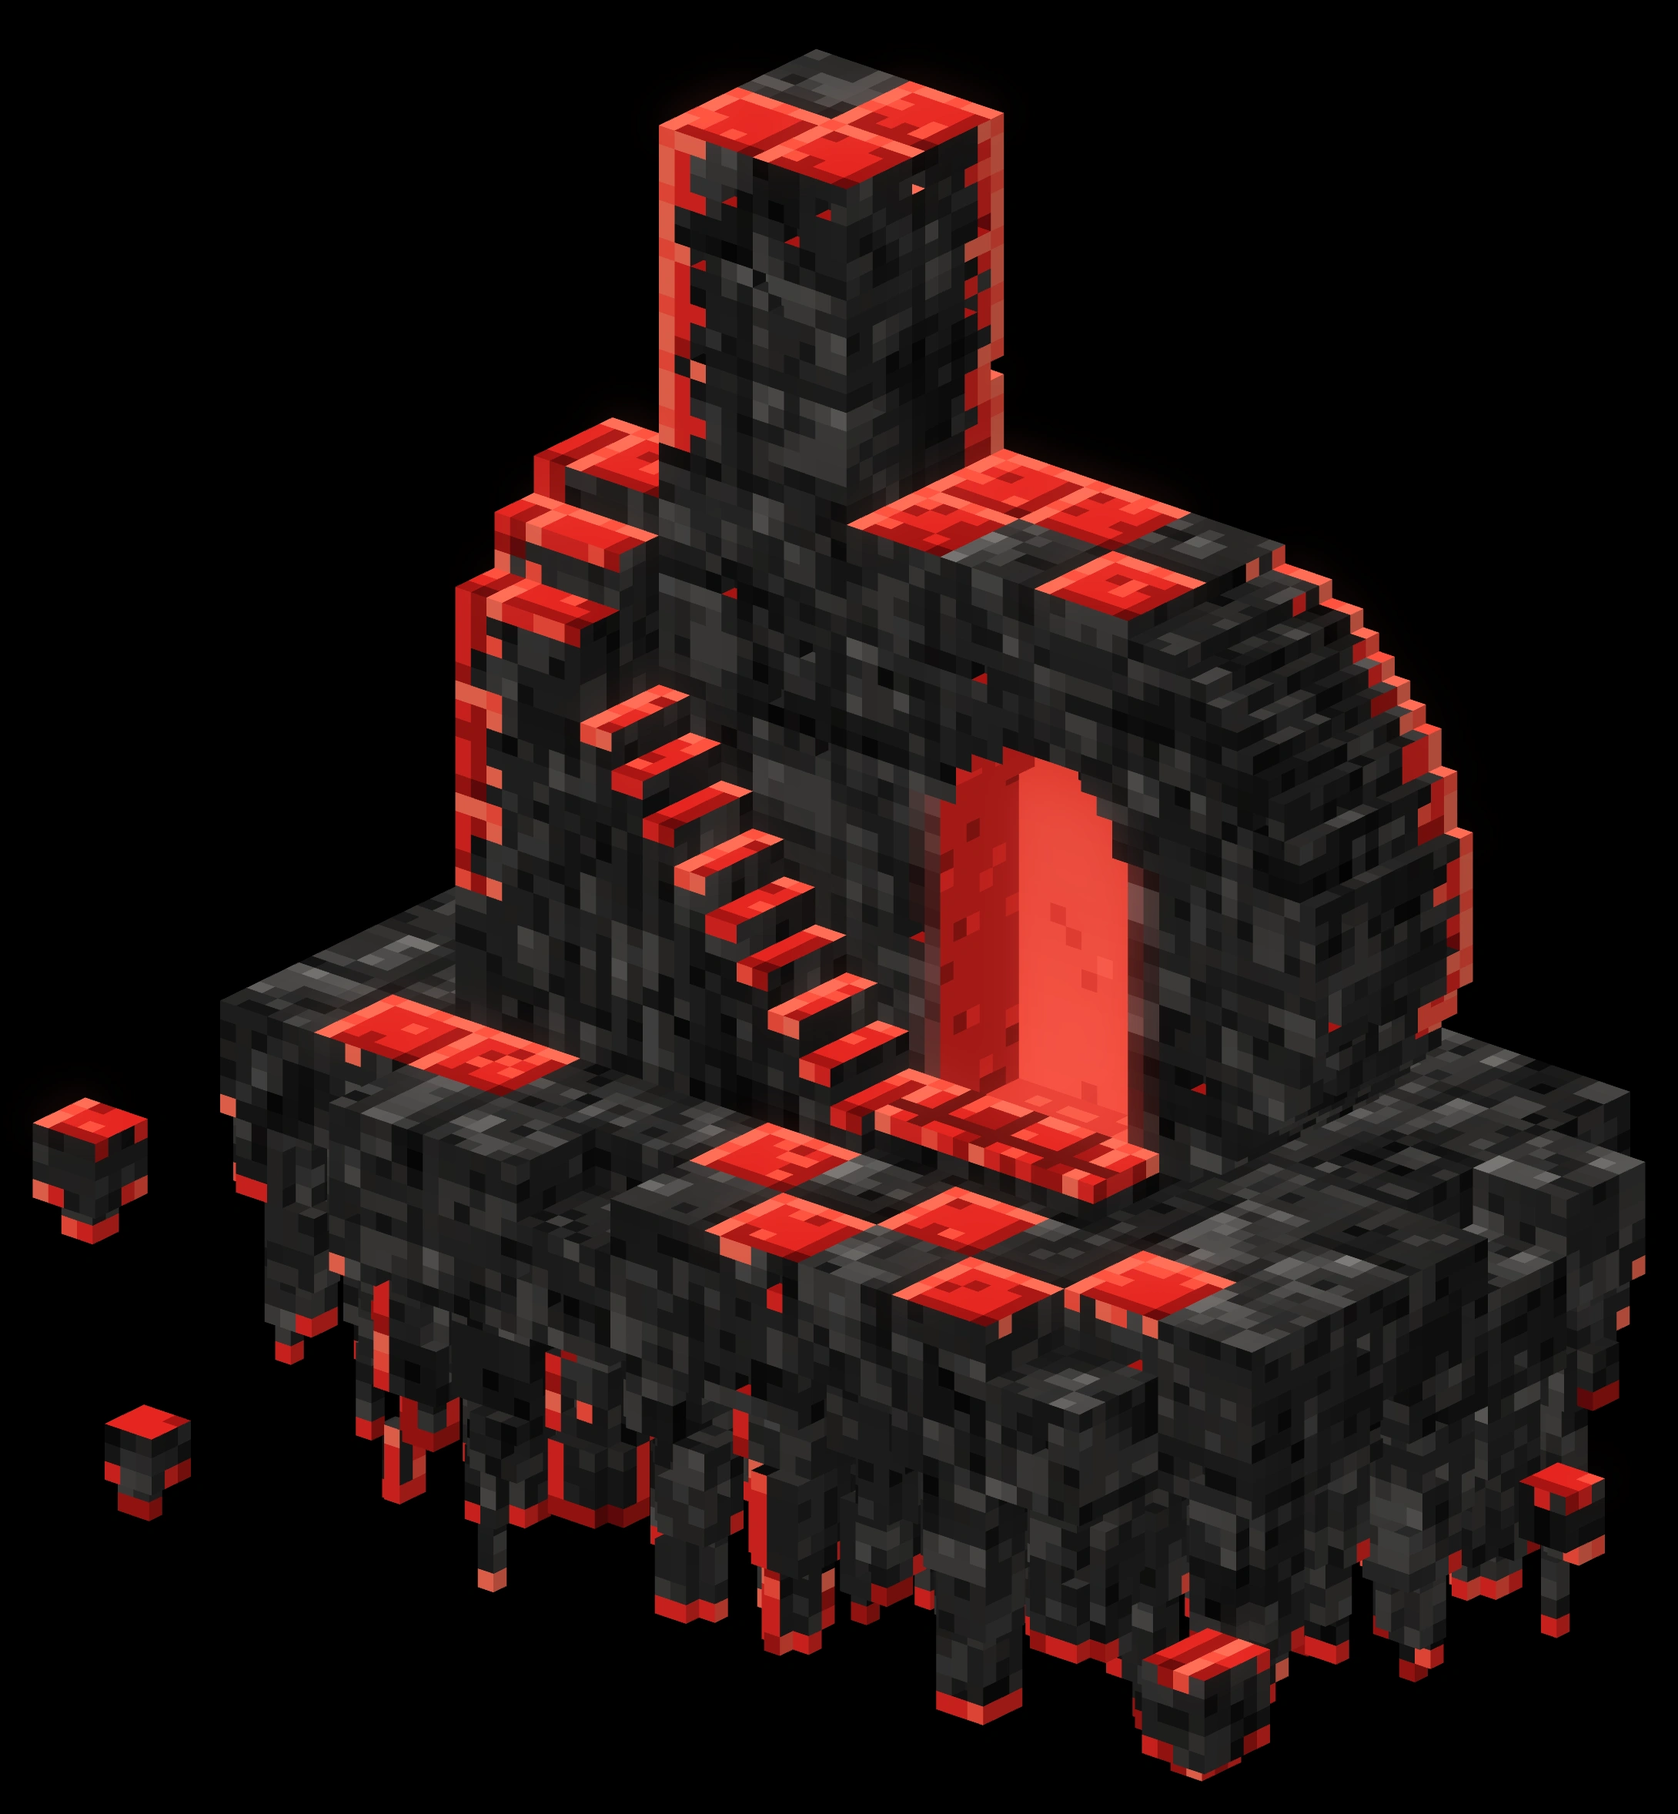
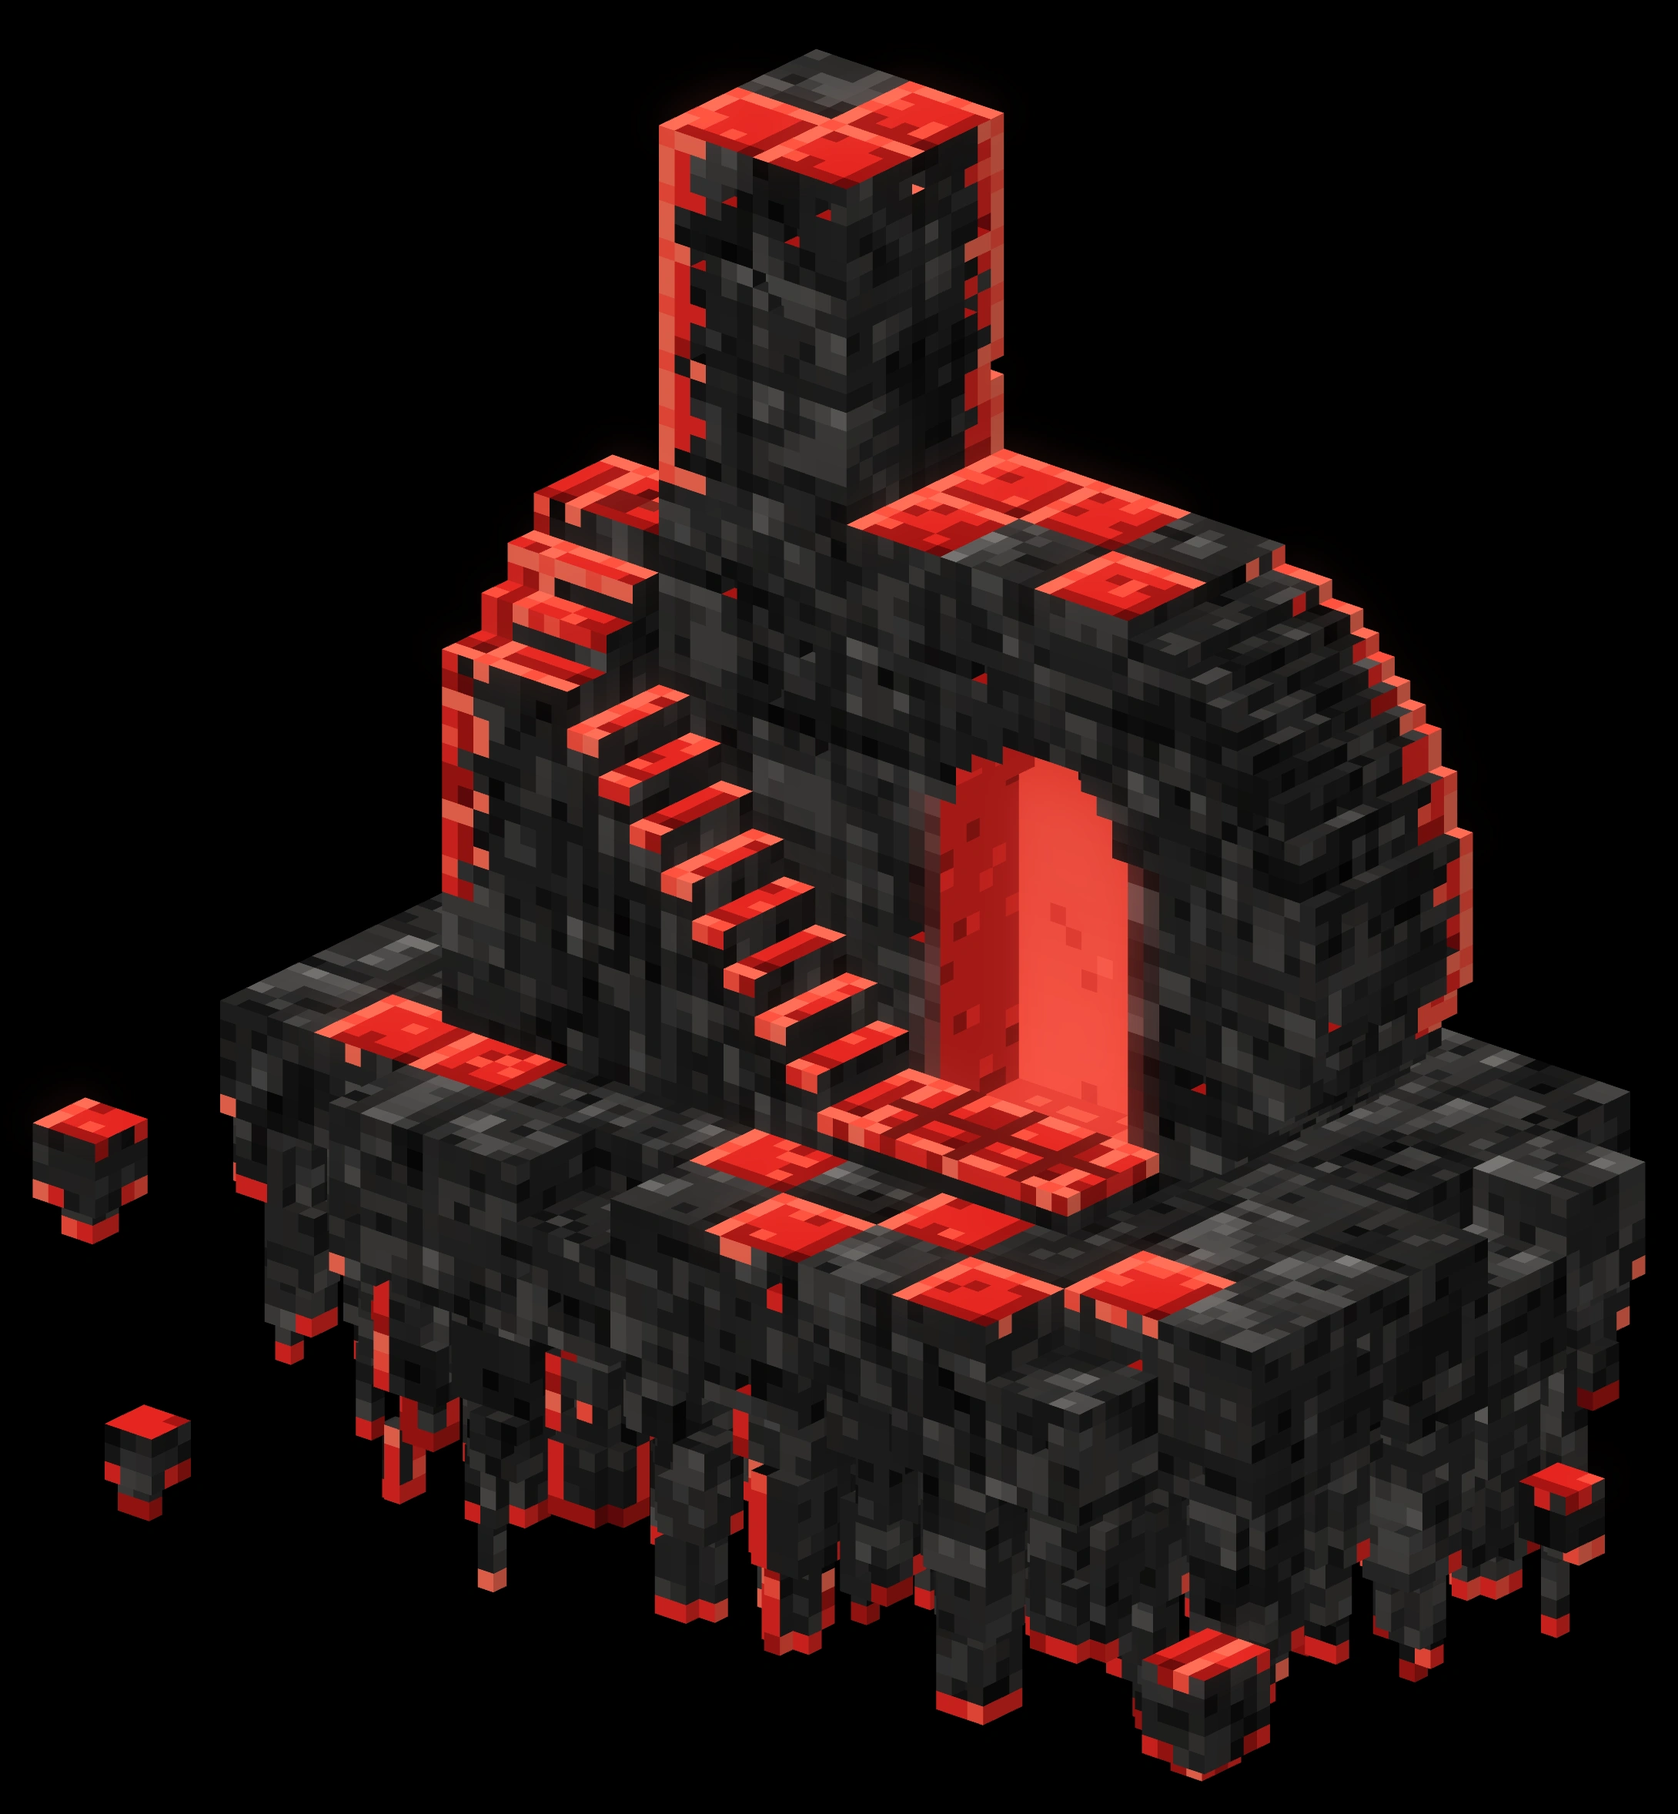
Home: connected stair path, explorer grounded on the landing, stone texture demo page
- Stairs: one continuous path with a 5-unit rise everywhere (landing 65, two steps, tower 50, nine steps down to the gate)
- Explorer stands on the lowered top landing with a soft shadow under his boots
- Pixel-art tile texture for stone (DEMO=stonetex / pixeltex); demo.html switches between current and demo renders

Claude-Session: https://claude.ai/code/session_01QzWKhTYrrY3Jd26DSiS11Q

Changed region(s): [[0.2495, 0.2169, 0.655, 0.6817]]

diff --git a/tools/sculpture-vox.js b/tools/sculpture-vox.js
@@ -105,18 +105,19 @@ function buildLetter() {
 const STEP = 7.5;                                 // chunky steps: 3 voxels run and rise, like the reference
 const MID_Z = 52.5, TOP_Z = 75;
 const SMALL_DOOR = { x0: 30, x1: 37.5, y0: 37.5, y1: 45, z0: 70, zRect: 80, r: 3.75 };
-const EXPLORER_AT = [20, 38, 70];
+const EXPLORER_AT = [20, 39, 65];
 function buildStairs() {
-  // as in the reference: the explorer's landing at the stem's front-left corner; two steps down onto the tower; then a long flight of
-  // nine small steps (5 run, 5 rise) running right along the stem's front, down to the gate step. One big block deep.
-  fillBox(10, 30, 30, 45, 0, 70, KIND.TOWER, newBlock(true));                                       // top landing (explorer)
-  fillBox(10, 30, 45, 60, 0, 50, KIND.TOWER, newBlock(true));                                       // the tower
-  fillBox(10, 30, 45, 52.5, 0, 63.75, KIND.STAIR, newBlock(true));                                  // two steps down onto the tower
-  fillBox(10, 30, 52.5, 60, 0, 57.5, KIND.STAIR, newBlock(true));
-  for (let s = 0; s < 9; s++) fillBox(30 + 5 * s, 35 + 5 * s, 45, 60, 0, 50 - 5 * (s + 1), KIND.STAIR, newBlock(true));
+  // as in the reference, one continuous path with a 5-unit rise everywhere: the explorer's landing at the stem's front-left corner
+  // (65 high); two steps down toward the viewer onto the tower's top (50); then a long flight of nine small steps (5 run, 5 rise)
+  // running right along the stem's front from the tower, down to the gate step. One big block deep.
+  fillBox(10, 30, 30, 45, 0, 65, KIND.TOWER, newBlock(true));                                       // top landing (explorer)
+  fillBox(10, 30, 45, 50, 0, 60, KIND.STAIR, newBlock(true));                                       // two steps down onto the tower
+  fillBox(10, 30, 50, 55, 0, 55, KIND.STAIR, newBlock(true));
+  fillBox(10, 30, 55, 62.5, 0, 50, KIND.TOWER, newBlock(true));                                     // the tower: the turn landing
+  for (let s = 0; s < 9; s++) fillBox(30 + 5 * s, 35 + 5 * s, 45, 62.5, 0, 50 - 5 * (s + 1), KIND.STAIR, newBlock(true));
   // the gate's step: red tiles from the gate along the bowl's front, then curving in under the bowl's rounded bottom ending
   const stepBlock = newBlock(true);
-  for (let i = vi(65); i < vi(137.5); i++) for (let j = vj(15); j < vj(57.5); j++) {
+  for (let i = vi(65); i < vi(137.5); i++) for (let j = vj(15); j < vj(62.5); j++) {
     const X = cx(i), Y = cy(j);
     const front = Y >= 45 && X < 110;                                        // in front of the gate only
     const under = false;
@@ -204,7 +205,8 @@ function roughen() {
 const STONE_FACE = { top: 1.5, front: 1.0, right: 0.74 };
 const RED_FACE = { top: 1.0, front: 0.86, right: 0.66 };
 const REDS = [[0.93, 0.17, 0.15], [0.88, 0.14, 0.12], [0.98, 0.27, 0.22], [0.74, 0.1, 0.09]];
-const DEMO_REDTEX = /demo=redtex/.test(location.search);
+const DEMO_REDTEX = /demo=(redtex|pixeltex)/.test(location.search);
+const DEMO_STONETEX = /demo=(stonetex|pixeltex)/.test(location.search);
 // demo: red as a crafted pixel-art tile per big block (like the explorer's pixel art): lit top-left edge, shaded bottom-right
 // edge, a dark corner, and a few highlight / shade specks inside
 function redTile(i, j, k, f) {
@@ -228,7 +230,27 @@ function redColour(i, j, k, f) {
   const m = f === 0 ? RED_FACE.top : f === 1 ? RED_FACE.front : RED_FACE.right;
   return [c[0] * m, c[1] * m, c[2] * m];
 }
+// demo: stone as a crafted pixel-art tile per big block, the same idea as the red tile: a lit top-left edge, a shaded bottom-right
+// edge with a dark corner, and inside two or three lighter chips (2 x 1 or 2 x 2), a few pits and flecks
+function stoneTile(i, j, k, f, b) {
+  const loc = (v) => Math.floor((((v % 15) + 15) % 15) / V);
+  const X = cx(i), Y = cy(j), Z = cz(k);
+  const u = f === 2 ? loc(Y) : loc(X), w = f === 0 ? loc(Y) : 5 - loc(Z);
+  const hb = Math.floor(X / 15) * 31 + Math.floor(Y / 15) * 17 + Math.floor(Z / 15) * 7 + f * 3;
+  let v = 0.112 + (blocks[b] ? blocks[b].tone : 0);
+  if (u === 5 && w === 5) return v - 0.06;
+  if (u === 0 || w === 0) return v + ((u + w) % 4 === 1 ? 0.03 : 0.055);
+  if (u === 5 || w === 5) return v - 0.04;
+  for (let c = 0; c < 3; c++) {                                // chips: lighter clusters at block-chosen spots
+    const cu = 1 + Math.floor(hash3(hb, c, 1, 92) * 3), cw = 1 + Math.floor(hash3(hb, c, 2, 92) * 3), big = hash3(hb, c, 3, 92) < 0.5;
+    if (c === 2 && hash3(hb, 9, 9, 92) < 0.5) break;
+    if (u >= cu && u <= cu + 1 && w >= cw && w <= cw + (big ? 1 : 0)) return v + (u === cu && w === cw ? 0.1 : 0.07);
+  }
+  const n = hash3(hb, u * 7 + w, 4, 93);
+  return n < 0.12 ? v - 0.045 : n > 0.9 ? v + 0.035 : v;
+}
 function stoneValue(i, j, k, f, b) {
+  if (DEMO_STONETEX) return stoneTile(i, j, k, f, b);
   let v = 0.12 + (blocks[b] ? blocks[b].tone : 0);
   const n = hash3(i, j, k, 20 + f), c2 = hash3(i >> 1, j >> 1, k >> 1, 23 + f), c3 = hash3(Math.floor(i / 3), Math.floor(j / 3), Math.floor(k / 3), 24 + f);
   if (c2 > 0.76) v += 0.085;                                  // lighter 2 x 2 chips
@@ -348,6 +370,9 @@ function faceColour(i, j, k, f) {
     if (dx < 5 && Z < DOOR.zRect + 6) spill = Math.max(0, 0.35 - dx * 0.07) * (Z < 12 ? 1.3 : 1);
   }
 
+  if (red && f === 0 && Math.abs(cz(k) + V / 2 - EXPLORER_AT[2]) < 0.1 && (cx(i) - EXPLORER_AT[0] - 0.6) ** 2 / 16 + (cy(j) - EXPLORER_AT[1]) ** 2 / 9 < 1) {
+    const c = redColour(i, j, k, f); return [c[0] * 0.55, c[1] * 0.5, c[2] * 0.5];   // the explorer's soft shadow under his boots
+  }
   if (red) return redColour(i, j, k, f);
 
   let v = stoneValue(i, j, k, f, b);
@@ -357,7 +382,7 @@ function faceColour(i, j, k, f) {
   for (let q = 0; q < 4; q++) {
     const [a, bb, c] = dirs[q];
     const ni = i + a, nj = j + bb, nk = k + c;
-    if (solid(ni, nj, nk) && bid[idx(ni, nj, nk)] !== b) {
+    if (!DEMO_STONETEX && solid(ni, nj, nk) && bid[idx(ni, nj, nk)] !== b) {
       const lowSide = (f === 0 && (a > 0 || bb > 0)) || (f !== 0 && (c < 0 || a > 0 || bb < 0));
       v *= lowSide ? 0.72 : 1.16;
     }

diff --git a/demo.html b/demo.html
@@ -1,0 +1,90 @@
+<!doctype html>
+<html lang="en">
+<head>
+  <meta charset="utf-8">
+  <meta name="viewport" content="width=device-width, initial-scale=1">
+  <title>Blitzedo — Texture demo</title>
+  <meta name="robots" content="noindex">
+  <meta name="description" content="Blitzedo is a small game studio building worlds worth getting lost in.">
+  <meta name="theme-color" content="#090A08">
+  <link rel="stylesheet" href="css/styles.css">
+  <style>
+    .demo-bar { display: flex; flex-wrap: wrap; align-items: center; gap: 8px; padding: 14px var(--gutter, 40px) 0; }
+    .demo-bar__label { font-size: 13px; letter-spacing: 0.08em; text-transform: uppercase; opacity: 0.6; margin-right: 6px; }
+    .demo-bar button { font: inherit; font-size: 14px; color: var(--ivory); background: transparent; border: 1px solid rgba(251, 245, 235, 0.25);
+      border-radius: 4px; padding: 7px 12px; cursor: pointer; }
+    @media (max-width: 900px) {
+      .demo-bar { flex-wrap: nowrap; gap: 6px; padding-top: 10px; }
+      .demo-bar__label { display: none; }
+      .demo-bar button { flex: 1; font-size: 12px; padding: 6px 4px; white-space: nowrap; }
+      .hero { min-height: calc(100svh - var(--header-h) - 44px); }
+      .hero__sculpture { height: max(260px, calc(100svh - var(--header-h) - 2 * 0.82 * 24vw - 166px)); }
+    }
+    .demo-bar button[aria-checked="true"] { background: var(--red); border-color: var(--red); }
+  </style>
+</head>
+<body>
+  <a class="skip-link" href="#main">Skip to content</a>
+
+  <header class="site-header">
+    <a class="wordmark" href="./" aria-label="blitzedo, home">blitzedo</a>
+
+    <button class="menu-toggle" type="button" aria-expanded="false" aria-controls="site-nav">
+      <span class="menu-toggle__label">Menu</span>
+      <span class="menu-toggle__bars" aria-hidden="true"><i></i><i></i></span>
+    </button>
+
+    <nav class="site-nav" id="site-nav" aria-label="Primary">
+      <a href="games.html">Games</a>
+      <a href="studio.html">Studio</a>
+      <a href="contact.html" class="site-nav__contact">
+        Contact
+        <svg class="icon icon--up-right" viewBox="0 0 16 16" width="16" height="16" aria-hidden="true" focusable="false">
+          <path d="M3.5 12.5 12 4M5.2 3.8h7v7" fill="none" stroke="currentColor" stroke-width="1.5" stroke-linecap="square"/>
+        </svg>
+      </a>
+    </nav>
+  </header>
+
+  <main id="main">
+    <div class="demo-bar" role="radiogroup" aria-label="Texture">
+      <span class="demo-bar__label">Texture demo</span>
+      <button type="button" role="radio" aria-checked="false" data-src="assets/sculpture.webp">Current</button>
+      <button type="button" role="radio" aria-checked="false" data-src="assets/demo-redtex.webp">Pixel red</button>
+      <button type="button" role="radio" aria-checked="true" data-src="assets/demo-pixeltex.webp">Pixel red + stone</button>
+    </div>
+    <section class="hero">
+      <div class="hero__copy">
+        <h1 class="hero__title">Play<br>beyond</h1>
+        <a class="btn" href="games.html">
+          <span>Explore games</span>
+          <svg class="icon icon--arrow" viewBox="0 0 28 20" width="28" height="20" aria-hidden="true" focusable="false">
+            <path d="M1 10h24M17 2l8 8-8 8" fill="none" stroke="currentColor" stroke-width="2" stroke-linecap="square"/>
+          </svg>
+        </a>
+      </div>
+
+      <figure class="hero__art">
+        <div class="hero__stage" data-explorer="0.28578 0.13667 0.14725 0.16426 14">
+          <img class="hero__sculpture"
+            src="assets/demo-pixeltex.webp"
+            width="2180" height="2356"
+            alt="A lowercase b built from small charcoal blocks, floating on a rocky island. A stairway climbs from a red-lit doorway in the bowl to a tiny ivory explorer in a red scarf."
+            fetchpriority="high" decoding="async">
+        </div>
+      </figure>
+    </section>
+  </main>
+
+  <script src="js/menu.js" defer></script>
+  <script src="js/explorer.js" defer></script>
+  <script>
+    document.querySelectorAll('.demo-bar button').forEach(function (b, _, all) {
+      b.addEventListener('click', function () {
+        all.forEach(function (o) { o.setAttribute('aria-checked', String(o === b)); });
+        document.querySelector('.hero__sculpture').src = b.getAttribute('data-src');
+      });
+    });
+  </script>
+</body>
+</html>

diff --git a/tools/build-sculpture.js b/tools/build-sculpture.js
@@ -70,12 +70,12 @@ const TYPES = { '.html': 'text/html', '.js': 'text/javascript', '.mjs': 'text/ja
     fs.writeFileSync(out, Buffer.from(url.split(',')[1], 'base64'));
     console.log(`wrote ${path.relative(process.cwd(), out)} (${width}px wide, ${(fs.statSync(out).size / 1024) | 0} KB); source ${size[0]}x${size[1]}`);
   }
-  if (process.env.DEMO) {                              // e.g. DEMO=redtex: render the demo variant to assets/demo-<name>.webp
-    await page.goto(`http://127.0.0.1:${port}/render.html?demo=${process.env.DEMO}`);
+  for (const demo of (process.env.DEMO || '').split(',').filter(Boolean)) {   // e.g. DEMO=redtex,pixeltex: assets/demo-<name>.webp
+    await page.goto(`http://127.0.0.1:${port}/render.html?demo=${demo}`);
     await page.waitForFunction('window.__sculptureReady === true', null, { timeout: 280000 });
     const url = await page.evaluate("window.__sculptureCanvas.toDataURL('image/webp', 0.95)");
-    fs.writeFileSync(path.join(assets, `demo-${process.env.DEMO}.webp`), Buffer.from(url.split(',')[1], 'base64'));
-    console.log('wrote demo', process.env.DEMO);
+    fs.writeFileSync(path.join(assets, `demo-${demo}.webp`), Buffer.from(url.split(',')[1], 'base64'));
+    console.log('wrote demo', demo);
   }
   await browser.close();
   server.close();

diff --git a/index.html b/index.html
@@ -44,7 +44,7 @@
       </div>
 
       <figure class="hero__art">
-        <div class="hero__stage" data-explorer="0.28853 0.11460 0.14771 0.16469 14">
+        <div class="hero__stage" data-explorer="0.28578 0.13667 0.14725 0.16426 14">
           <img class="hero__sculpture"
             src="assets/sculpture.webp"
             srcset="assets/sculpture-1000.webp 1000w, assets/sculpture.webp 2180w"

diff --git a/design/SCULPTURE.md b/design/SCULPTURE.md
@@ -66,13 +66,15 @@ How the home page sculpture (`assets/sculpture.webp`) is built, and how each par
 
 ## Stairs: the path
 
-As in the reference, one big block deep:
+As in the reference, one big block deep, one continuous path with a 5-unit rise at every step:
 
-1. **Top landing**: at the stem's front-left corner, 70 high, where the explorer stands.
-2. **Short flight**: two steps come down toward the viewer onto the tower.
-3. **Tower (mid landing)**: 50 high at the b's front-left, with a red outline on its edges.
-4. **Long flight**: nine small steps (5 run, 5 rise) run right along the stem's front, down to the gate.
+1. **Top landing**: at the stem's front-left corner, 65 high, where the explorer stands (a soft dark shadow under his boots).
+2. **Short flight**: two steps (60, 55) come down toward the viewer onto the tower.
+3. **Tower (turn landing)**: 50 high at the b's front-left, with a red outline on its edges.
+4. **Long flight**: nine small steps (5 run, 5 rise, 45 down to 5) run right along the stem's front from the tower, down to the gate.
 5. **Gate step**: red tiles in front of the gate, where the flight lands.
+
+![Stairs and explorer](references/sculpture/stairs-explorer-zoom.png)
 
 Treads are red, with a one-pixel red front edge; risers are dark stone; the outer edges carry the red outline.
 
@@ -130,8 +132,10 @@ he matches the sculpture's 3D pixel look. The build renders 14 frames into `asse
 
 ![Explorer frames](../references/explorer-frames.png)
 
-## Demo: pixel-texture red (not live)
+## Demo: pixel-texture red and stone (not live; see `demo.html`)
 
 `DEMO=redtex CHROMIUM_PATH=/opt/pw-browsers/chromium node tools/build-sculpture.js` renders `assets/demo-redtex.webp`:
 each red block top gets a crafted 6 × 6 pixel tile (lit top-left edge, shaded bottom-right edge, a dark corner and specks),
-like the explorer's texture. Comparison: [`demo-redtex-compare.png`](references/sculpture/demo-redtex-compare.png).
+like the explorer's texture. `DEMO=stonetex` does the same for the stone (lit top-left edge, shaded bottom-right edge and dark
+corner, two or three lighter chips, a few pits); `DEMO=pixeltex` combines both. Several at once: `DEMO=redtex,stonetex,pixeltex`.
+`demo.html` shows the home page with a switcher between the current render and the demos. Red comparison: [`demo-redtex-compare.png`](references/sculpture/demo-redtex-compare.png).

diff --git a/README.md b/README.md
@@ -20,3 +20,4 @@ Open `index.html` in a browser (no build step needed).
 - The explorer is a 3D voxel figure rendered by the build into 14 animation frames (`assets/explorer.png`) and played by `js/explorer.js`, placed on the landing via the stage's `data-explorer` attribute (written to `assets/sculpture.json`; copy into `index.html` after a rebuild).
 - The artwork is rendered on pure black and shown with `mix-blend-mode: screen`, so it blends into the page background.
 - Links to `games.html`, `studio.html` and `contact.html` are placeholders until those pages exist.
+- `demo.html` is a texture demo of the home page (switch between the current render and the pixel-texture demos); it is not linked from the site.
